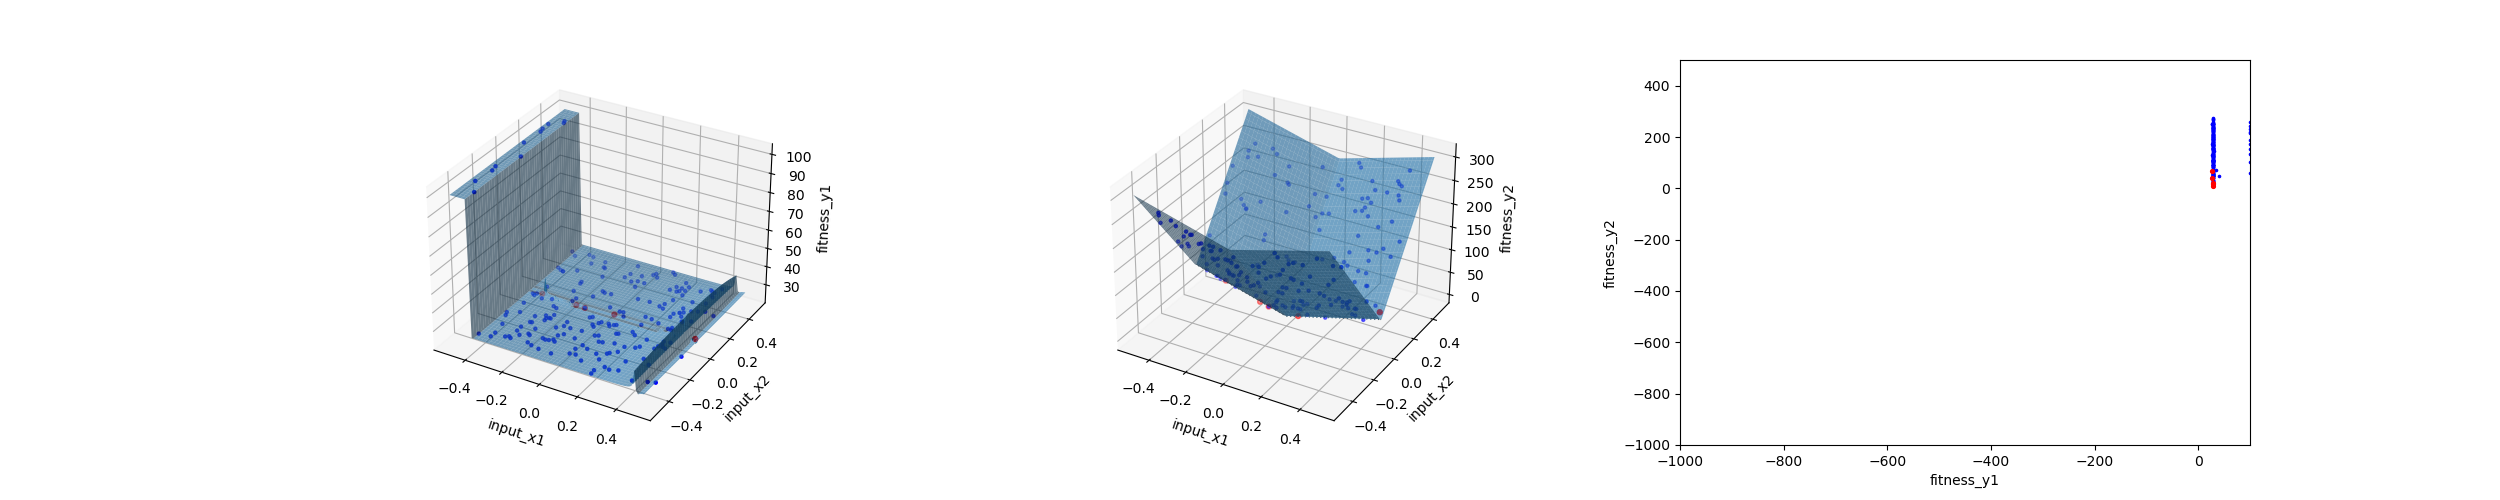
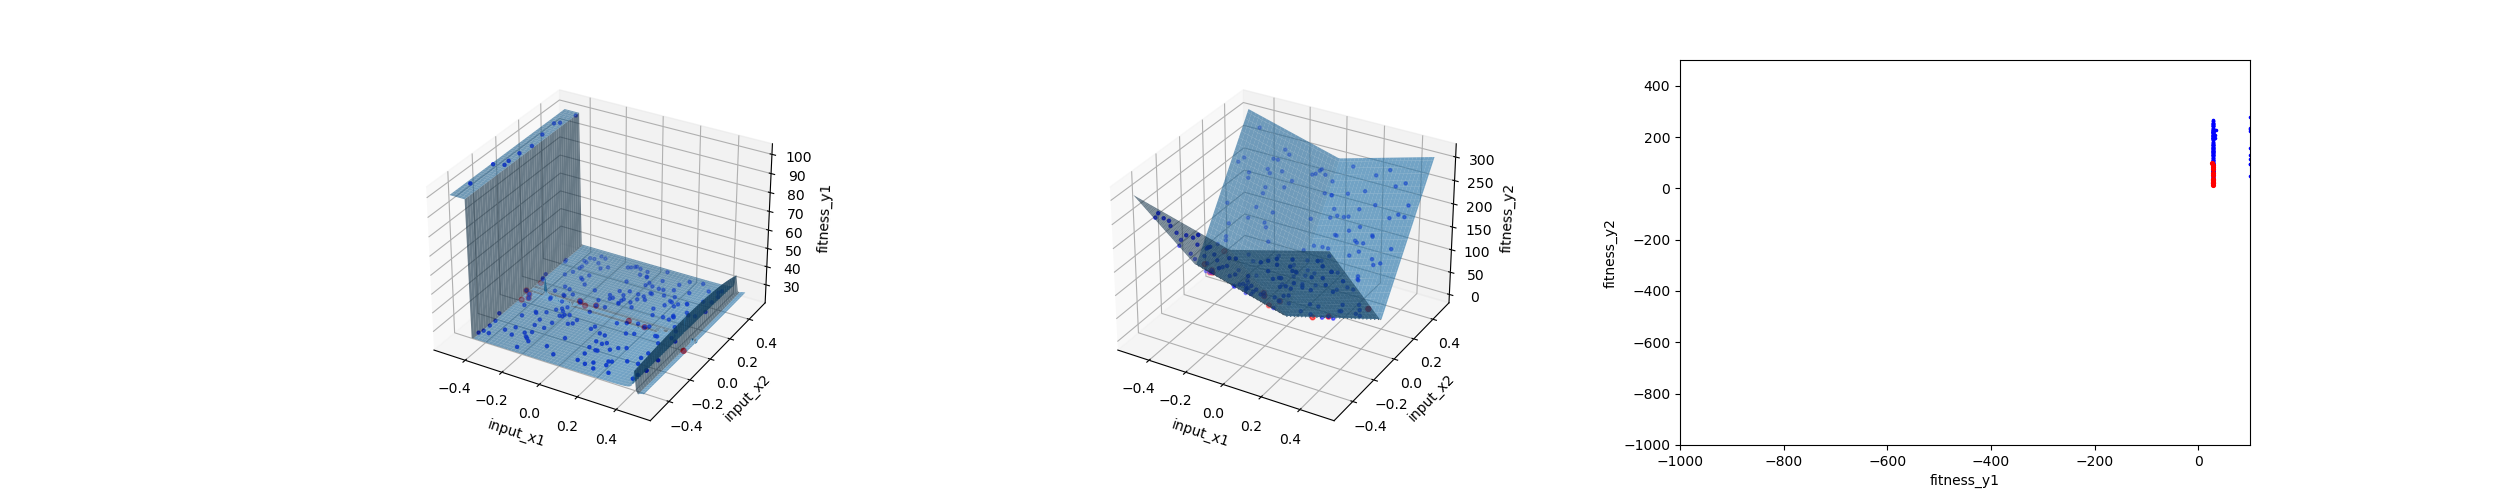
3/30日

diff --git a/MOPSO/main.py b/MOPSO/main.py
@@ -7,7 +7,7 @@ def main():
     c1 = 0.1  # 局部速度因子
     c2 = 0.1  # 全局速度因子
     particals = 200  # 粒子群的数量
-    cycle_ = 50  # 迭代次数
+    cycle_ = 25  # 迭代次数
     mesh_div = 10  # 网格等分数量
     thresh = 300  # 外部存档阀值
     min_ = np.array([-0.5, -0.5, -0.5, -0.5])  # 粒子坐标的最小值
